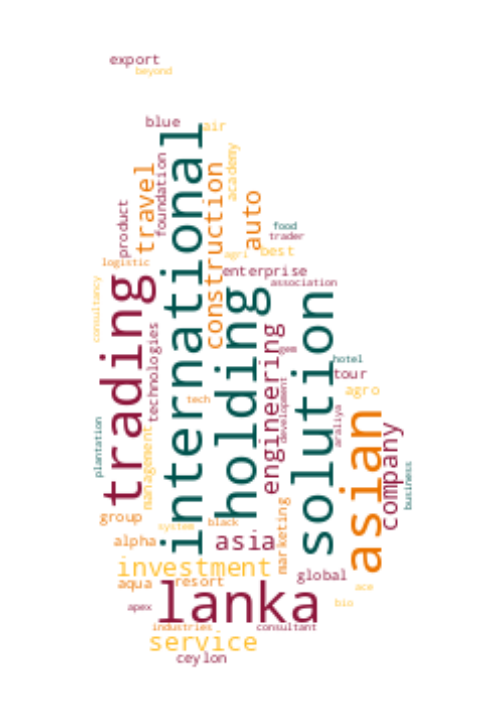
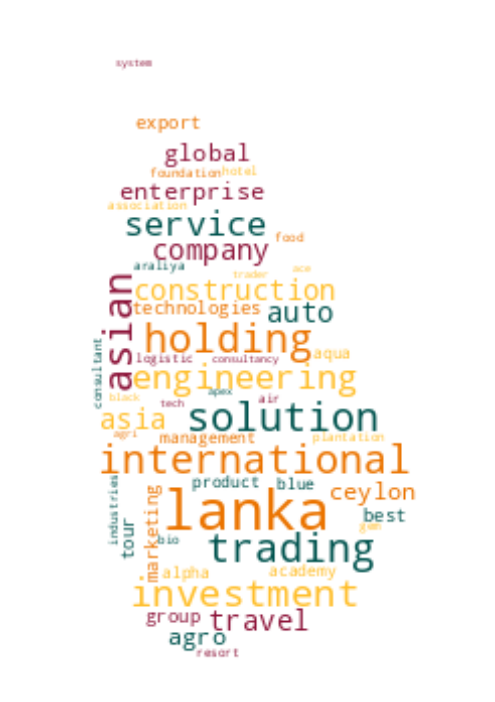
pipeline Sun Dec  3 18:50:17 UTC 2023

Changed region(s): [[0.1818, 0.1496, 0.8485, 0.9573], [0.2121, 0.0598, 0.3636, 0.1197]]

diff --git a/README.md b/README.md
@@ -4,40 +4,40 @@ Data Scraped from Registrar of Companies - Sri Lanka (https://eroc.drc.gov.lk)
 
 ![word-cloud](data/word_cloud.png)
 
-Scraped **13,550** Companies as of *2023-12-04 00:07:12*.
+Scraped **13,555** Companies as of *2023-12-04 00:20:16*.
 
 ## List of 30 Random Companies
 
-* ABEL METALCRAFT - PV6692
-* AEEON PLASTICK - PV89700
-* AIG INSURANCE - PB766
-* AIZORIX - PV00237571
-* AKLAAN HOLDINGS - PV104454
-* ALI BROTHERS HOLDINGS - PV00250341
-* ALI TRADERS - PV6411
-* AMBER EMMA - PV00271934
-* AMIT CONSORTIUM - PV00245296
-* ANGEL VISION VALUATION - PV00277451
-* ANSELL LANKA - PV17811
-* ART - PV00286895
-* ART CORPORATE ADVISERS - PV70796
-* ARVEE HYDRAULICS LANKA - PV104523
-* ASHALIN INVESTMENTS - PV6323
-* ASHFAQ GEM & JEWELRY - PV124417
-* ASIATIC GOVT SECURITY LIFE & GEN ASS - F237
-* ATMARK  LANKA INTERNATIONAL - PV00244856
-* AURORA POWER PROJECTS - PV69522
-* AUSTASIA SPORTS - PV3749
-* AUTO PLAZA ANANDA INTERNATINOAL - PV2488
-* AUTO XTREME.LK - PV94643
-* AYP. L K - PV128071
-* BEAVER HOLDINGS - PV00230420
-* BEST HARVEST LANKA - PV00202652
-* BEST WAY ENGINEERING - PV00227145
-* BINDU FOUNDATION - GA2706
-* BIZTARS CORPORATE SERVICES - PV90356
-* BLACK WATER POWER - PV6855
-* BOSILU HOLDINGS - PV00226339
+* ABANS MARKETING - PV11487
+* ACCESS FINANCIAL SERVICES - PV73945
+* AEGLE HOLDING - PV105531
+* AGRO LANKA GROWERS - PV78109
+* AGRO NEEDS HOLDINGS - PV00232975
+* AHMED TRAVEL & TOURS  GROUP OF COMPANIES - PV00274877
+* ALHABEEBI TRAVELS - PV00289143
+* ALHABIB FOOD TRADE - PV128072
+* AMAZON PLASTIC - PV90709
+* AMOS LANKA - PV105610
+* ANOVA EXPORTS LANKA - PV00227591
+* ANTARES WELLNESS - PV121897
+* APE ADZ DEAL LINKS - PV00238455
+* APEY RESORT GAL OYA - PV00201229
+* AQUEENY BIOTECH - PV00245166
+* ARCHER B & S - PV78118
+* ASHINSA - PV00260092
+* ATHSARA CONSTRUCTION - PV00209558
+* AURORA CONSOLIDATED - PV93253
+* AUSTIN DAVIES - PV16346
+* AXIS ENGINEERING AND CONSTRUCTION SERVICES - PV00238874
+* AZMIYA MANPOWER CONSULTANTS TRAVELS AND TOURS - PV00226731
+* AZTUTE GLOBAL - PV00265590
+* BARRESSENTIAL - PV00210475
+* BELIGEDARA ENTERPRISES - PV00227698
+* BIGDEAL - PV82747
+* BLEND OF CEYLON - PV00267783
+* BLUE DUKE INTERNATIONAL - PV17110
+* BLUE LADDER ENGINEERING - PV00248624
+* BOLANYA HOLDINGS LANKA - PV102555
 
 ## List of Early Registrations
 
@@ -55,6 +55,7 @@ Scraped **13,550** Companies as of *2023-12-04 00:07:12*.
 * **26** - ANUSHKA WIRASINHA COMPUTING AND DIGITAL ART FOUNDATION 
 * **27** - BANQUE DE L''INDOCHINE ET DE SUEZ (FRANCE) 
 * **28** - BERENDINA DEVELOPMENT SERVICES 
+* **32** - BPTIST MISSIONERY SOCIETY 
 * **33** - BANK OF OMAN 
 * **34** - AGIO SIRILAK SAHANA SEVA VOCATIONAL TRAINING CENTRE 
 * **34** - ALCO INSURANCE COMPANY 
@@ -70,4 +71,3 @@ Scraped **13,550** Companies as of *2023-12-04 00:07:12*.
 * **50** - ALGEMENE BANK NEDERLAND 
 * **53** - ALONA 
 * **53** - AMERICAN EDUCATION CENTRE 
-* **63** - BALLAST - NEDAM INTERNATIONAL B.V. 
